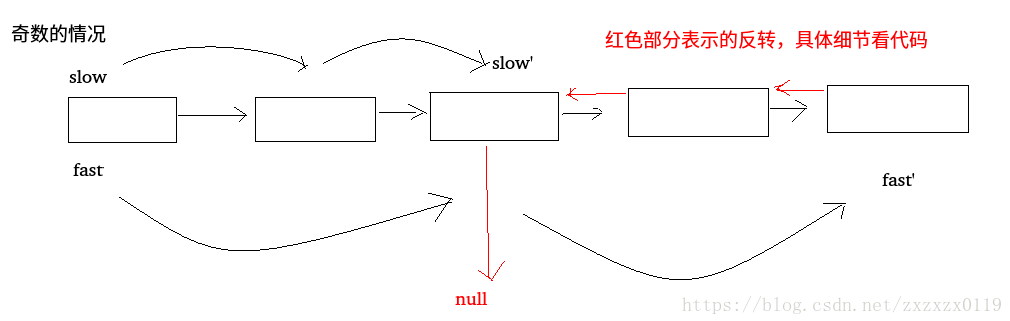
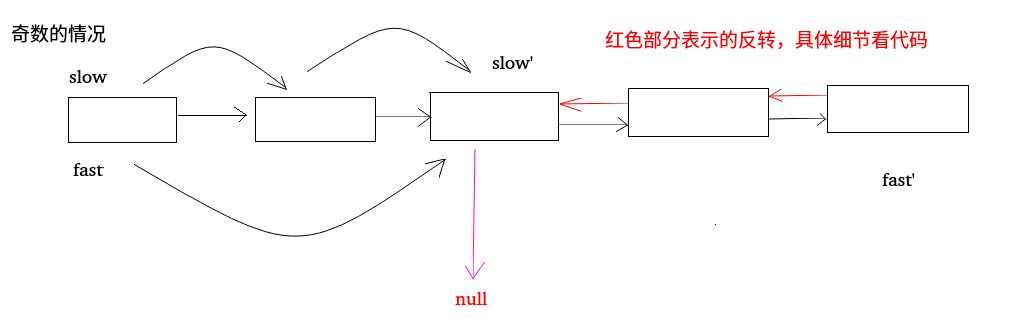
update

diff --git a/刷题/LeetCode/Data Structure/List/LeetCode - 234. Palindrome Linked List(回文链表).md b/刷题/LeetCode/Data Structure/List/LeetCode - 234. Palindrome Linked List(回文链表).md
@@ -10,9 +10,7 @@
 #### 题目
 ![在这里插入图片描述](images/234_t.png)
 
-
-
-### 方法一 : 使用一个栈(O(n)的空间复杂度)
+### 1、使用一个栈(O(n)的空间复杂度)
 
  这个方法很简单，先遍历一遍链表，把整个链表都压入栈中，然后再遍历一遍，每次从栈顶拿出一个元素进行比较，如果所有元素都相同，则返回`true`，否则只要有一个不同就返回`false`。
 
@@ -42,14 +40,14 @@ class Solution {
 ```
 
 ***
-### 方法二 : 使用快慢指针，以及O(n/2)的空间复杂度
+### 2、使用快慢指针，以及O(n/2)的空间复杂度
 
 这个就是在第一种方法的基础上进行简单的改进：
 * 首先定义两个指针`fast`和`slow`，每次让`fast`指针走两步，`slow`指针走一步；
-
 * 然后当`fast`指针走完的时候，`slow`指针刚好来到中点，此时把链表的后半部分压入栈中，然后拿栈中的元素依次和链表的前半部分比较，就可以得到结果。
-
 * 在代码实现 的过程中，要注意链表长度奇偶的不同，奇数的时候，`slow`指针指到中间位置的下一个位置，偶数的时候也要`slow`指针知道中间位置的下一个位置，一开始的时候`slow = head.next`，还有就是要注意`fast`移动的过程中，要做两个判断，防止空指针异常，具体奇偶的过程看下图。
+
+代码:
 
 ![在这里插入图片描述](images/234_s.png)![在这里插入图片描述](images/234_s2.png)
 
@@ -87,20 +85,18 @@ class Solution {
 ```
 
 ***
-### 方法三 : 使用快慢指针并反转链表(不需要额外的空间复杂度)
+### 3、使用快慢指针并反转链表(不需要额外的空间复杂度)
 
 方法三的思想也要使用快指针和慢指针：
-* 快指针一次走两步，慢指针一次走一步，当快指针走完的时候，慢指针来到中间的位置(或者中间的前一个位置(偶数的情况(<font color = red>和上面的方法是不同的(上面的是慢指针在中间的后一个位置))))  (因为一开始`fast`和`slow`的起点和上面的不同)；
-* 然后，要用到<font color = red>链表的反转</font>(链表反转不清楚的可以看一下[这篇博客](https://blog.csdn.net/zxzxzx0119/article/details/81073246))，此时，我们将后半部分链表反转，然后使用两个指针分别从头部和尾部位置开始比较，直到其中一个为空。　当然，不管返回`true`还是`false`，我们最后都将反转的链表的结构反转回来；
- * 在代码实现的过程中，也要注意奇数和偶数的情况，<font color = red>奇数的时候，`slow`指针正好来到中间结点，偶数的时候来到中间结点的前一个节点。</font>
+* 快指针一次走两步，慢指针一次走一步，当快指针走完的时候，慢指针来到中间的位置(或者中间的前一个位置(偶数的情况(和上面的方法是不同的(上面的是慢指针在中间的后一个位置))))  (因为一开始`fast`和`slow`的起点和上面的不同)；
+* 然后，要用到链表的反转，此时，我们将后半部分链表反转，然后使用两个指针分别从头部和尾部位置开始比较，直到其中一个为空。　当然，不管返回`true`还是`false`，我们最后都将反转的链表的结构反转回来；
+ * 在代码实现的过程中，也要注意奇数和偶数的情况，奇数的时候，`slow`指针正好来到中间结点，偶数的时候来到中间结点的前一个节点。
 
  具体奇偶的过程可以看下图
 
 ![这里写图片描述](images/234_s3.png)
 
 ![这里写图片描述](images/234_s4.png)
-
-
 
 代码实现
 

diff --git a/刷题/LeetCode/LeetCode题解目录(按照题号).md b/刷题/LeetCode/LeetCode题解目录(按照题号).md
@@ -240,7 +240,7 @@
 | 226 | | | |
 | 227 | [Basic Calculator II，系列计算器和栈的题目](https://github.com/ZXZxin/ZXBlog/tree/master/%E5%88%B7%E9%A2%98/Other/LintCode/Data%20Structure/Stack) | Stack | Medium |
 | 228 | | | |
-| 229 | | | |
+| 229 | [Majority Element II](https://github.com/ZXZxin/ZXBlog/blob/master/%E5%88%B7%E9%A2%98/Other/%E5%89%91%E6%8C%87Offer/%E5%89%91%E6%8C%87Offer%20-%2028%20-%20%E6%95%B0%E7%BB%84%E4%B8%AD%E5%87%BA%E7%8E%B0%E6%AC%A1%E6%95%B0%E8%B6%85%E8%BF%87%E4%B8%80%E5%8D%8A%E7%9A%84%E6%95%B0%E5%AD%97.md#leetcode---229-majorityelementii) | Array | Medium |
 | 230 | | | |
 | 231 | | | |
 | 232 | | | |
